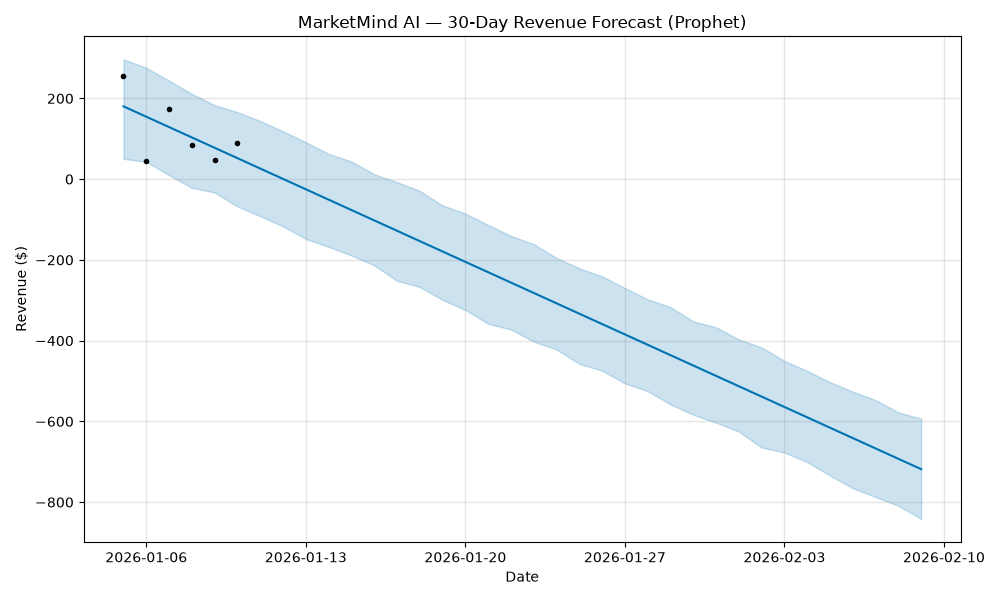
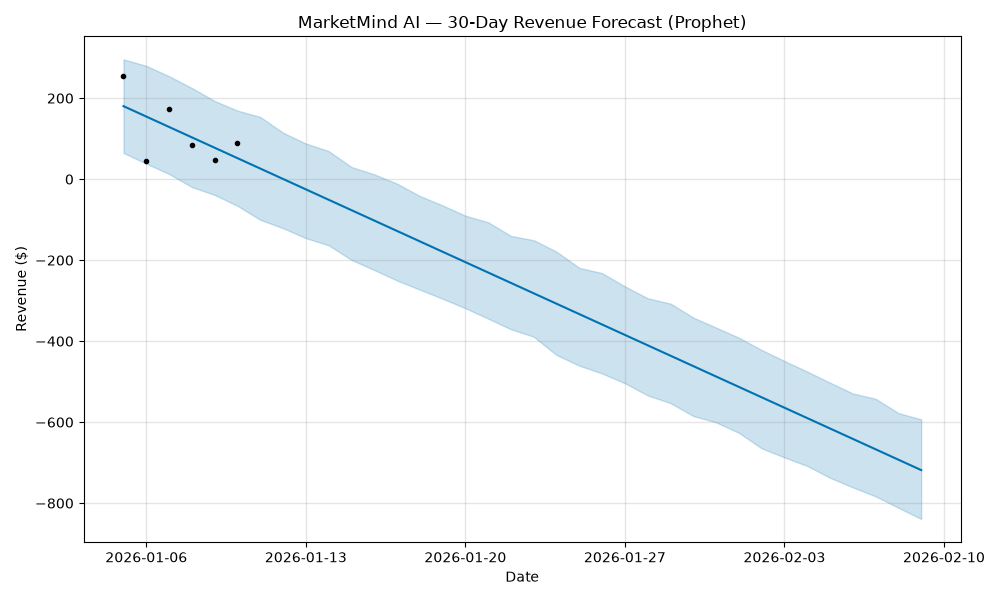
docs: update wireframe-to-endpoint tracking and forecast charts

diff --git a/docs/wireframes.md b/docs/wireframes.md
@@ -144,7 +144,24 @@ This document presents low-fidelity text/ASCII mockups for the primary screens a
 |  | 4  | System Administrator | admin@marketmind.ai   | admin           ||
 |  +----+----------------------+-----------------------+-----------------+|
 |                                                                         |
-|  RBAC Verification Tools:                                               |
-|  [ Verify /api/v1/users Permission Isolation ]                          |
-+-------------------------------------------------------------------------+
-```
+---
+
+## 6. Wireframe-to-Endpoint Tracking
+
+| Wireframe Component | Backend API Endpoint | Status |
+|---|---|---|
+| **Sales Today / Top Product** | `/sales/summary` (`/api/v1/sales/summary`) | Built in Milestone 1 |
+| **Customer Segments Panel** | `/segments` (`/api/v1/segmentation/segments`) | Built in Milestone 2 |
+| **Sales Trend / Forecast** | `/forecast/revenue` (`/api/v1/forecasting/revenue`) | Built in Milestone 2 |
+| **Forecast Model Comparison** | `/forecast/models` (`/api/v1/forecasting/models`) | Built in Milestone 2 |
+| **Low Stock Alerts** | `/inventory/alerts` (`/api/v1/inventory/alerts`) | Built in Milestone 1 |
+| **Recommendation Panel** | `/recommendations` | Milestone 3 |
+
+### Text Summary:
+- **Sales Today / Top Product**: `/sales/summary` — Built in Milestone 1
+- **Customer Segments Panel**: `/segments` — Built in Milestone 2
+- **Sales Trend / Forecast**: `/forecast/revenue` — Built in Milestone 2
+- **Forecast Model Comparison**: `/forecast/models` — Built in Milestone 2
+- **Low Stock Alerts**: `/inventory/alerts` — Built in Milestone 1
+- **Recommendation Panel**: `/recommendations` — Milestone 3
+
